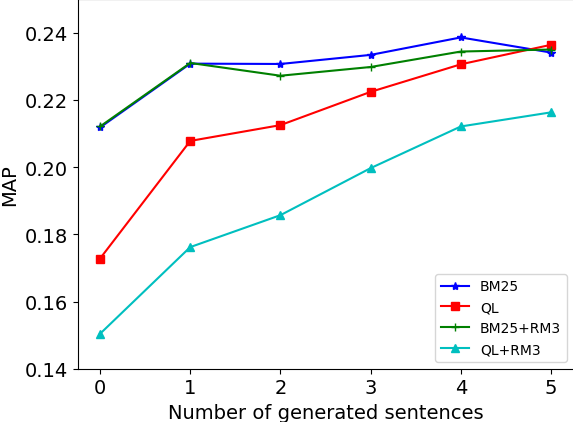
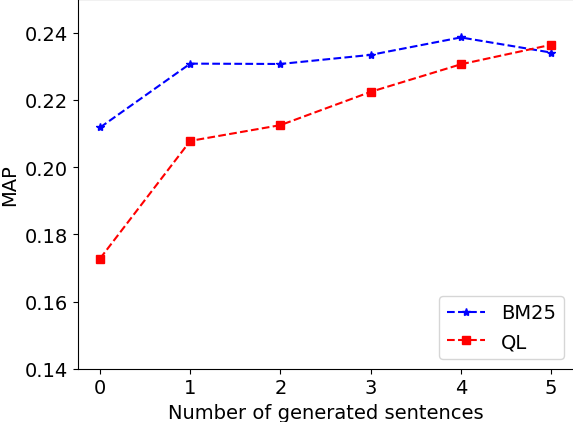
feat: fig3 change

diff --git a/plot/plot_fig3.py b/plot/plot_fig3.py
@@ -20,10 +20,10 @@ x1 = [0, 1, 2, 3, 4, 5]
 plt.xticks(fontsize=14)
 plt.yticks(fontsize=14)
 
-plt.plot(x1, MAP_BM25_LINE, "b*-", label="BM25")
-plt.plot(x1, MAP_QL_LINE, "rs-", label="QL")
-plt.plot(x1, MAP_BM25_RM3_LINE, "g+-", label="BM25+RM3")
-plt.plot(x1, MAP_QL_RM3_LINE, "c^-", label="QL+RM3")
+plt.plot(x1, MAP_BM25_LINE, "b*--", label="BM25")
+plt.plot(x1, MAP_QL_LINE, "rs--", label="QL")
+# plt.plot(x1, MAP_BM25_RM3_LINE, "g+-", label="BM25+RM3")
+# plt.plot(x1, MAP_QL_RM3_LINE, "c^-", label="QL+RM3")
 
 
 # plt.plot(t, t, 'r--', t, t**2, 'bs', t, t**3, 'g^')    # 설명 참고
@@ -32,7 +32,7 @@ axes.set_ylim([0.14, 0.25])
 
 plt.xlabel("Number of generated sentences", fontsize=14)
 plt.ylabel("MAP", fontsize=14)
-plt.legend(loc=4)
+plt.legend(loc=4, fontsize=14)
 
 plt.xticks(x1)
 
